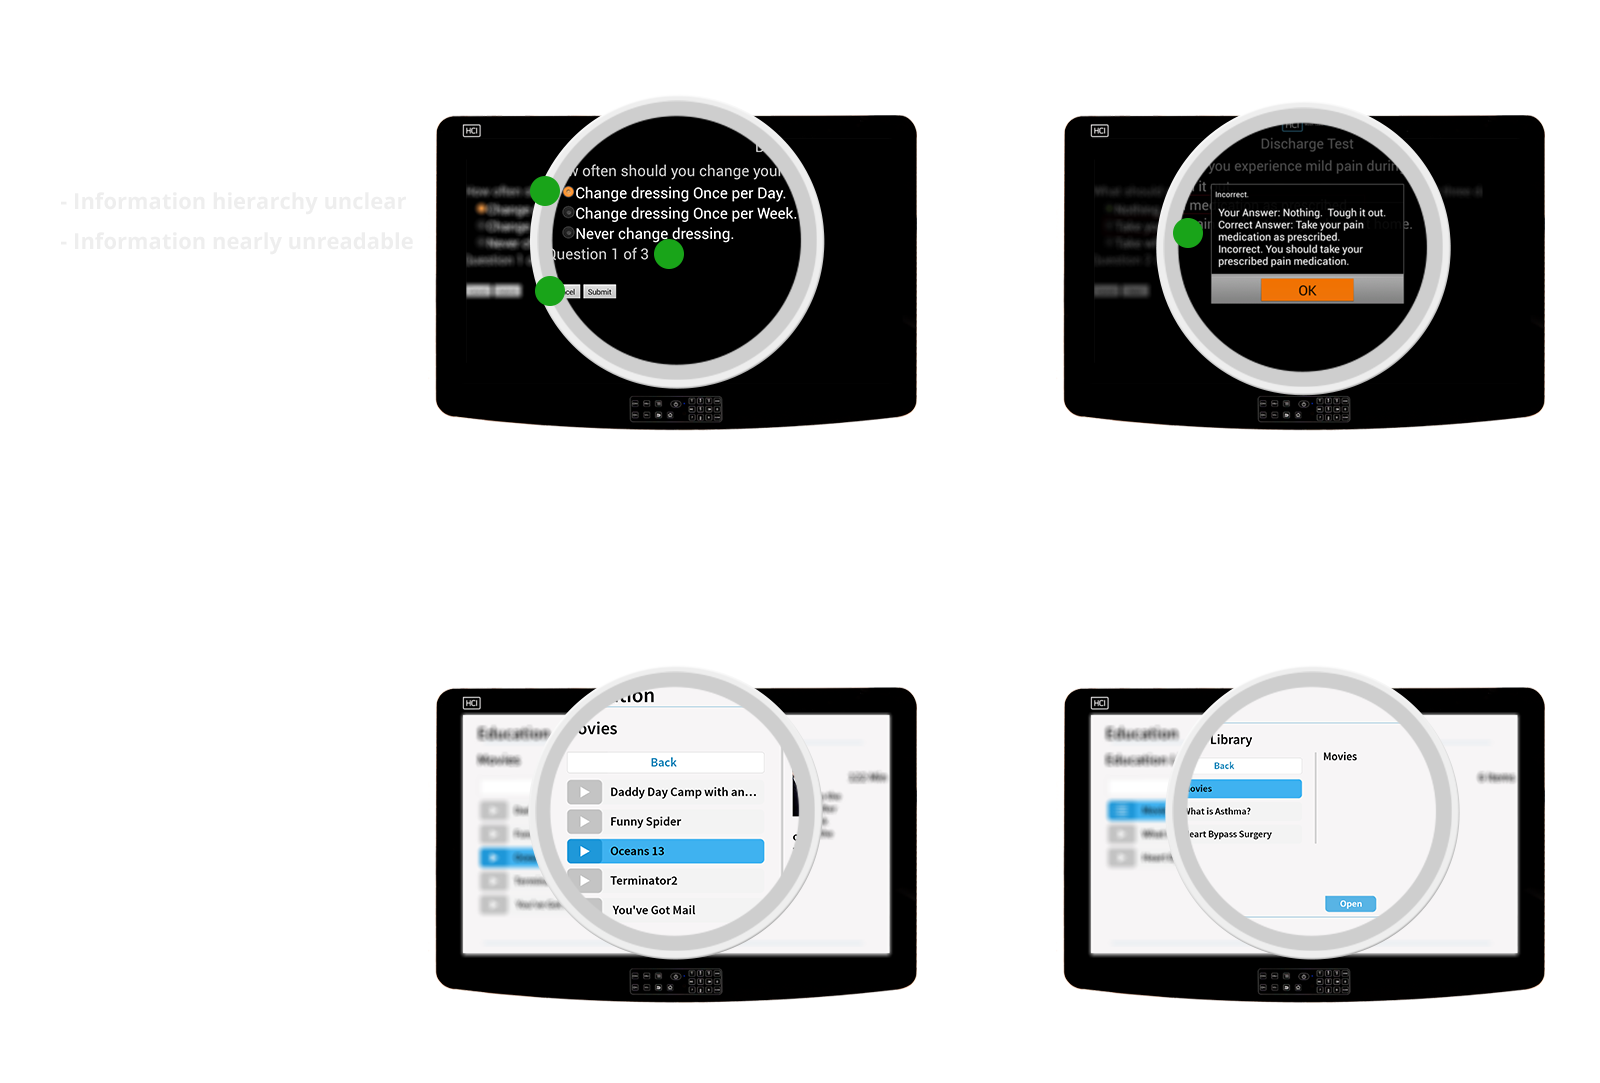
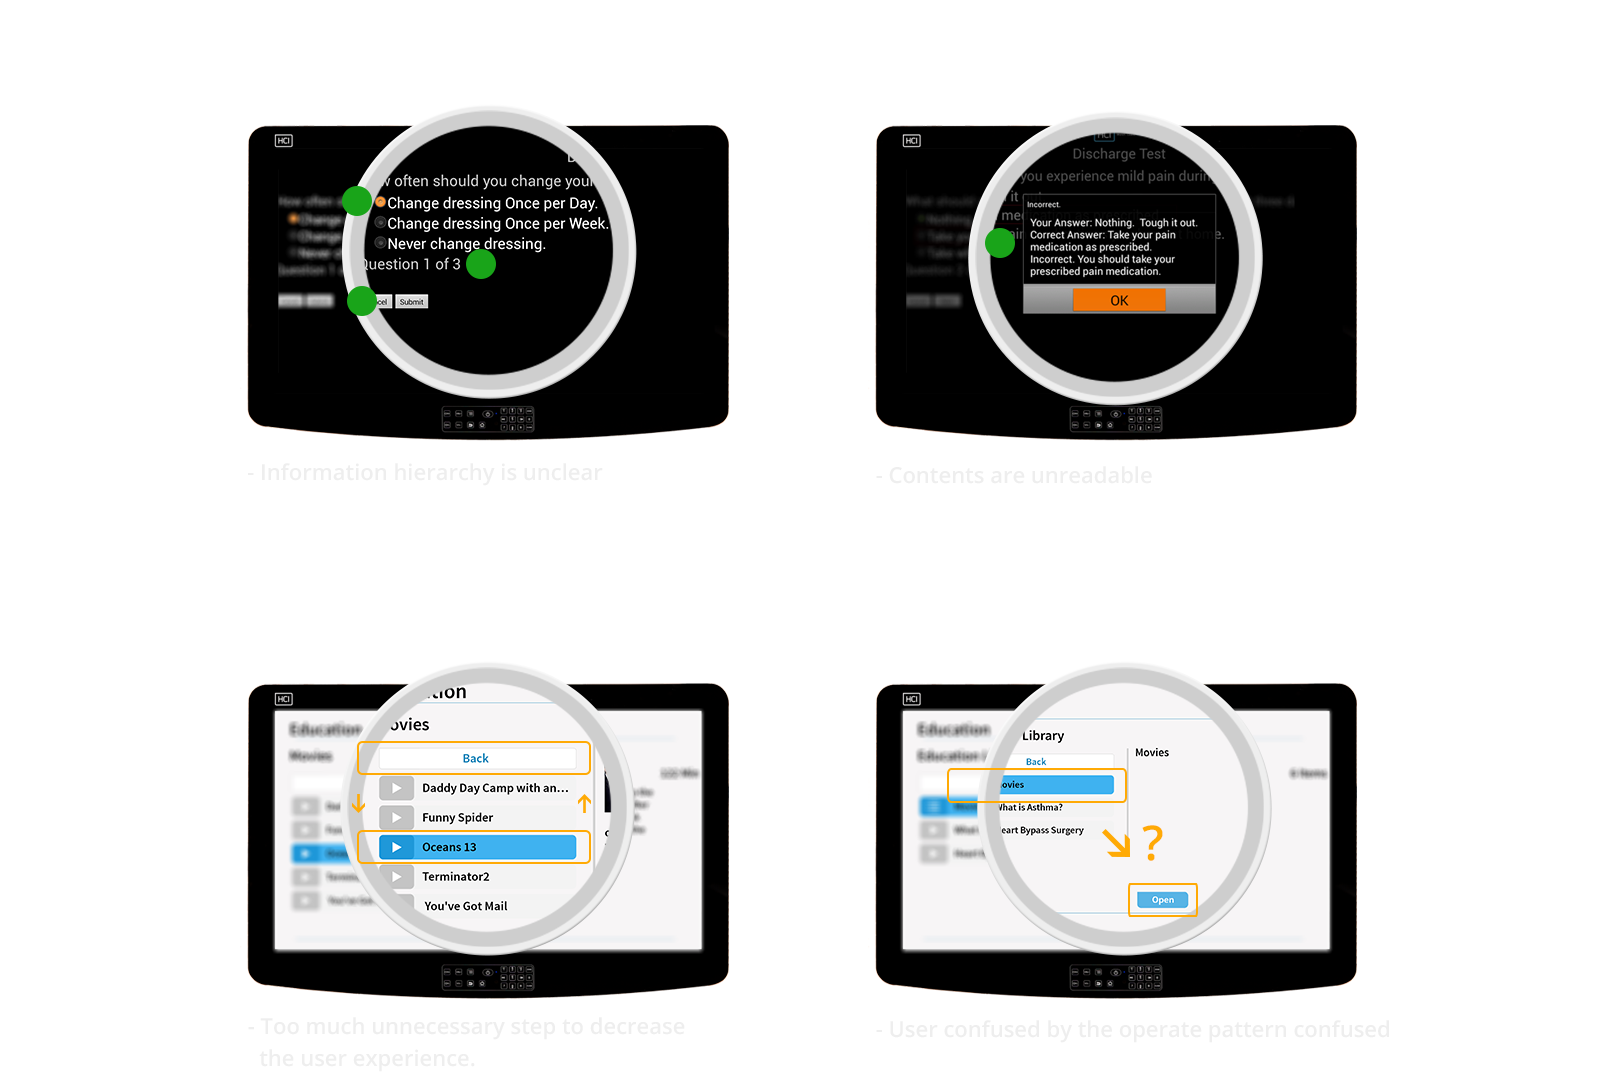
a

Changed region(s): [[0.1562, 0.6094, 0.9688, 0.9446], [0.1562, 0.0914, 0.9688, 0.4266]]

diff --git a/portfolio-hci.html b/portfolio-hci.html
@@ -68,7 +68,7 @@
 	        	<div class="section_text" style="width: 100%;padding:80px 0 20px 0;margin: 0;">
 			        <div class="row_text">
 			        	<h2>What I do ?</h2>
-			        	<h3 style="color:#777;font-size:1rem; font-weight:300;">Grouped the problems into different categories</h3>
+			        	<h3 style="color:#777;font-size:1.25rem; font-weight:200;">Redesign the Media care television App</h3>
 			        </div>
 			    </div>
 			    <div class="design_img_b">
@@ -93,7 +93,7 @@
 	    		<div class="section_text" style="width: 100%;padding-bottom:55px;margin: 0;">
 			        <div class="row_text">
 			        	<h2>Challenge</h2>
-			        	<h3 style="color:#777;font-size:1rem; font-weight:300;">Grouped the problems into different categories</h3>
+			        	<h3 style="color:#777;font-size:1.25rem; font-weight:300;">Grouped the problems into different categories</h3>
 			        </div>
 			    </div>
 			    <div class="design_img_b">
@@ -104,7 +104,7 @@
 		    	<div class="section_text" style="width: 30%;margin-left: 0px;">
 			        <div class="title_inside" style="text-align: center; padding:0 20px;">Define Problems</div>
 			        <div class="design_ui" style="max-width:300px;">
-			        	<span>We define the problems into two categories.</span>
+			        	<span>We define the problems into two categories, the <em style="font-style:normal; font-weight:600;">visual problems</em> and the <em style="font-style:normal; font-weight:600;">interaction problems</em></span>
 			        </div>
 			    </div>
 
@@ -113,11 +113,16 @@
                 </div>
 		    </div>
 
-		    <div class="section part part_5" style="background:#258de8;">
-		        <div class="title_inside" style="text-align:center;">Visual Problems</div>
-		        <div class="design_p"><span>- The alert box shows in a unfriendly way.</span></div>
-		        <div class="design_p"><span>- The information shows not clear is a source of confusion.</span></div>
-		        <div class="design_p"><span>- A lot of <em>Unreasonable Layout</em> of the information caused difficulty reading experience.</span></div>
+		    <div class="section part part_5" style="background:#fff;">
+		        <div class="section_text" style="width: 100%;padding-bottom:55px;margin: 0 auto; width:55%;">
+			        <div class="row_text">
+			        	<h2 style="color:#258de8;">Wireframe</h2>
+			        	<h3 style="color:#777;font-size:1.25rem; font-weight:300;">We <em style="font-style:normal; font-weight:600;">rearranged</em> information hierarchy  and show the <em style="font-style:normal; font-weight:600;">corn information directly</em>, also rethinked <em style="font-style:normal; font-weight:600;">interaction mode</em> to imporve the user experience.</h3>
+			        </div>
+			    </div>
+			    <div class="design_img_b">
+					       <img class="design_img_box" src="img/hci_4.png" style="width:90%;">
+				</div>
 		    </div>
 		    
 		    <div class="section part part_6">    

diff --git a/css/css3.css b/css/css3.css
@@ -283,7 +283,7 @@ body{font-size: 16px; overflow-y: scroll;background: #fff;height: 100%; font-fam
 
 .cb_hci .section_img{
 	width: 70%;
-	background: #f2f2f5;
+	background: #258de8;
 }
 
 .section_text{
